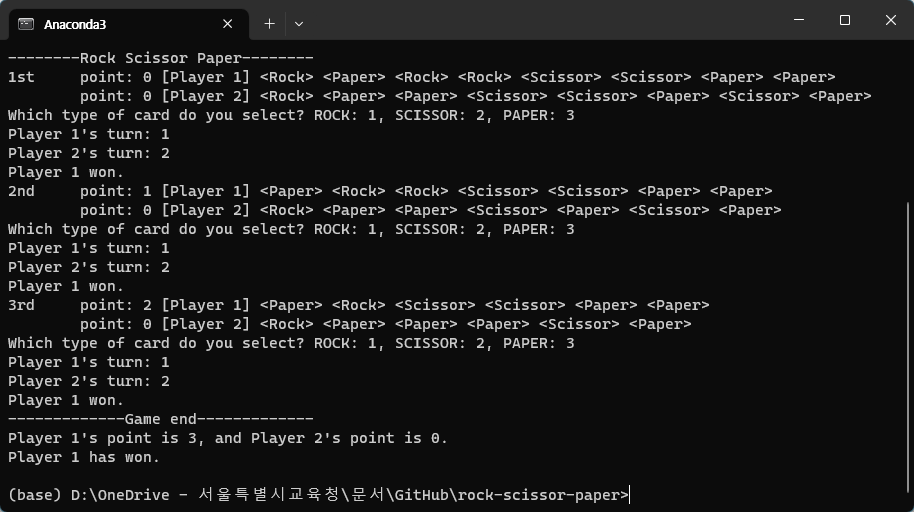
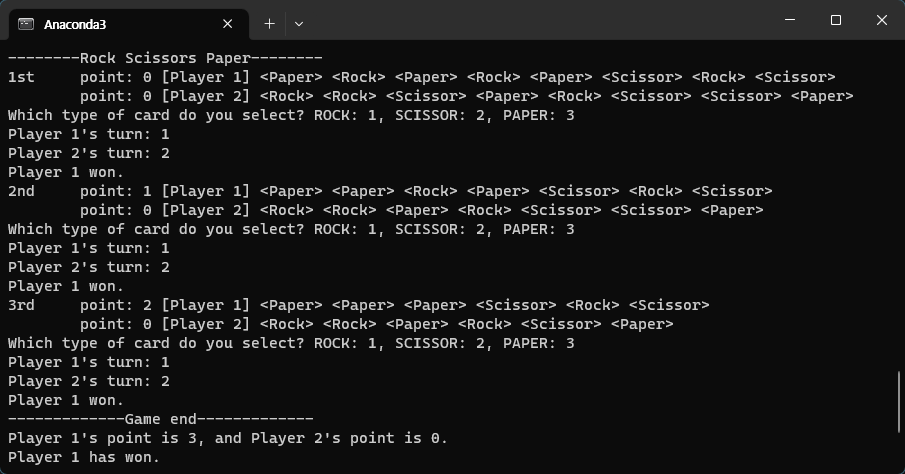
s added

Changed region(s): [[0.0, 0.0295, 1.0, 1.0], [0.9901, 0.384, 1.0, 0.7975], [0.9901, 0.9156, 1.0, 0.9747]]

diff --git a/rsp.py b/rsp.py
@@ -83,7 +83,7 @@ class Player:
             result += " " + str(card)
         return result
 
-print("--------Rock Scissor Paper--------")
+print("--------Rock Scissors Paper--------")
 d1 = Deck()
 d2 = Deck()
 p1 = Player("Player 1")
